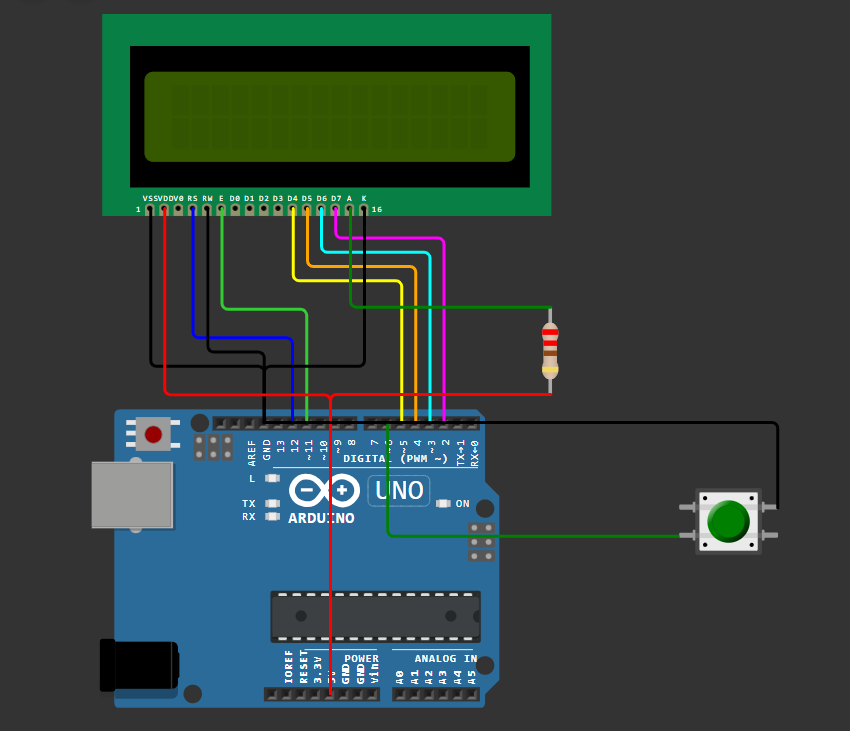
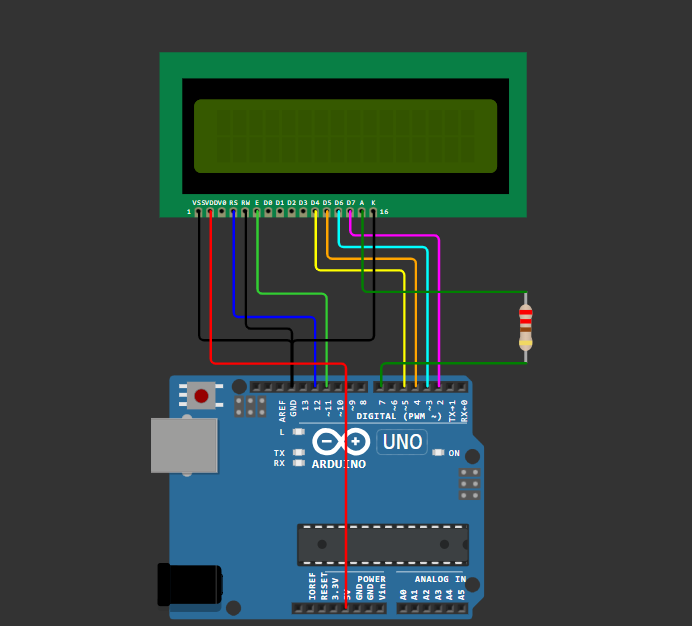
verandering lay-out algemene werkwijze

diff --git a/Algemene werkwijze/README.md b/Algemene werkwijze/README.md
@@ -12,17 +12,17 @@ De opbouw van de finale code van de code ging als volgt:<br>
     Deze code bevat de werking van 2 knoppen, deze zorgen voor het instellen van de tijd: +/- 30 seconden. De aan/uit knop en de knop om te beginnen aftellen moeten toegevoegd worden bij het samenbrengen van de verschillende componenten.
     <a href="https://wokwi.com/projects/461272536199758849 ">
       <img src="deel knoppen apart.png" width="300">
-    </a>
+    </a><br>
     - LED's
     In deze code worden 2 ledlichten afwisselend aan en uit geschakeld, bij elke verandering wordt vervolgens een boodschap geprint. Het doel van deze code is om de ledstaten de veranderen na aangegeven tijdsspannes.
     <a href="https://wokwi.com/projects/461272267489519617">
       <img src="opstelling_leds.png" width="300">
-    </a>
+    </a><br>
     - Scherm
     In deze code werd voornamelijk onderzocht hoe het LCD-scherm diende aangestuurd te worden en welke libraries hiervoor vereist werden. Het scherm printte hierbij enkel een boodschap.
     <a href="https://wokwi.com/projects/462175882081870849">
       <img src="deel scherm.png" width="300">
-    </a>
+    </a><br>
 
 <br>
 
@@ -32,13 +32,13 @@ De opbouw van de finale code van de code ging als volgt:<br>
     In deze code werden de LED's gekoppeld aan de buzzer, bij elke statusverandering zal nu een geluid klinken.
     <a href="https://wokwi.com/projects/462172590186935297">
       <img src="deel LED+buzzer Wokwi.png" width="300">
-    </a>!
+    </a><br>
     - Knoppen + scherm
     In deze code worden de laatste 2 knoppen bijgevoegd: aan/uit en het starten van de timer. 
     Verder wordt ervoor gezorgd dat alle knoppen interageren met het scherm zonder dat dit knippert.
     <a href="https://wokwi.com/projects/463446687865780225">
       <img src="deel knoppen+scherm.png" width="300">
-    </a>
+    </a><br>
 
 <br>
 
@@ -52,8 +52,8 @@ De opbouw van de finale code van de code ging als volgt:<br>
     Het scherm werd aangesloten op een component die slechts 4 pinnen vereist, dit zorgt voor extra gebruiksgemak bij het aansluiten van de pinnen.
     <a href="https://wokwi.com/projects/462923072193805313">
       <img src="opstelling_alle_componenten.png" width="300">
-    </a>
+    </a><br>
 
->De codes zijn [hier](../Arduino/README.md) terug te vinden.
+>De codes van al deze afzonderlijeke stappen kunnen [hier](../Arduino/README.md) terug gevonden worden.
 
->OPMERKING: De afbeeldingen bevatten een link naar de WokWi-simulatie. De aparte links zijn [hier](../Docs/links.md)terug te vinden.
+>OPMERKING: De afbeeldingen bevatten een link naar de WokWi-simulatie. De aparte links kunnen [hier](../Docs/links.md)terug gevonden worden.
